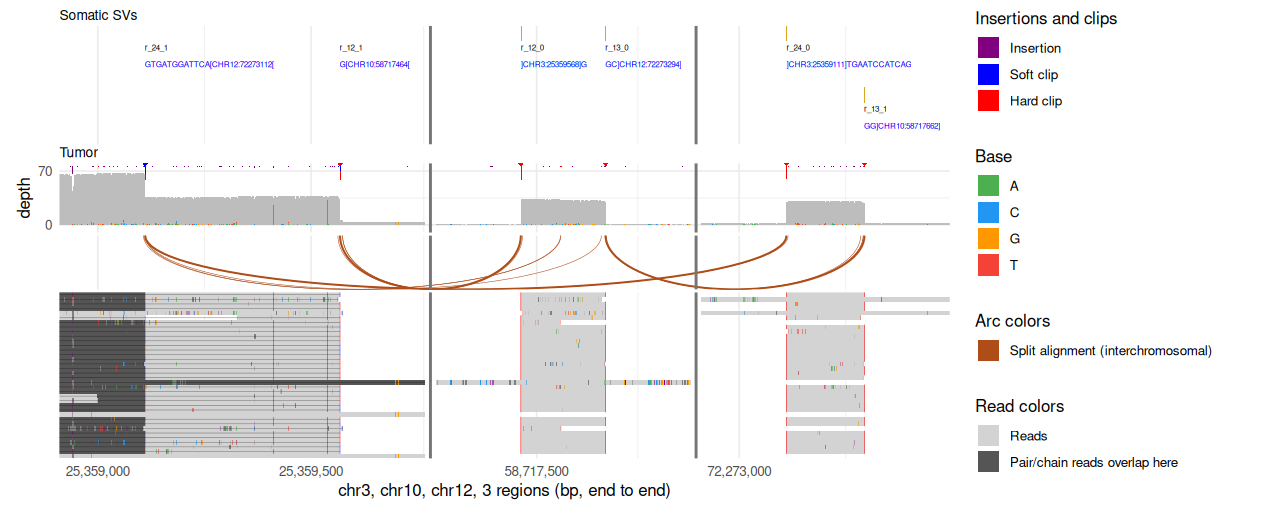
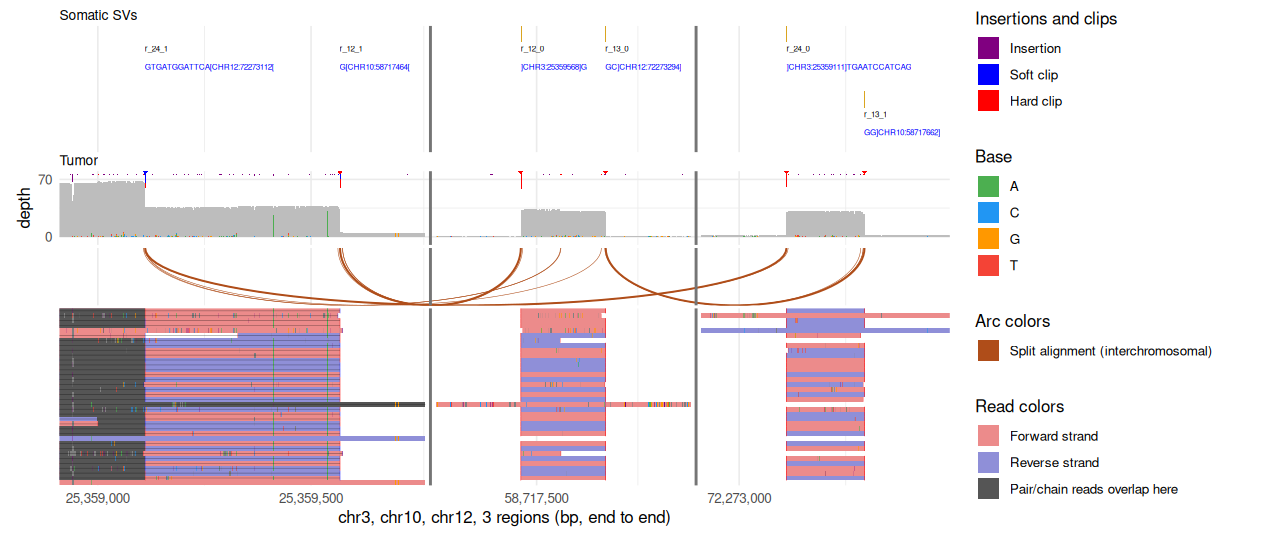
cancer_sv tutorial colors the chain reads under encoding
The display-level color slot moved to encoding.color, so the engine
dropped it with a warning and the chain figure lost its strand colors.

diff --git a/docs/tutorials/cancer_sv.md b/docs/tutorials/cancer_sv.md
@@ -443,15 +443,14 @@ arc for each split between chromosomes:
 
 ``` r
 chain_display <- list(unit = "chain", readConnections = list(show = TRUE),
-  color = list(field = "strand"), filter = list(list(field = "split", equal = TRUE)),
+  encoding = list(color = list(field = "strand")),
+  filter = list(list(field = "split", equal = TRUE)),
   pileup = list(readHeight = 3))
 fig <- jbrowse_stack(
   `Somatic SVs` = jbrowse_features(calls_vcf, loci, width = 1200,
     assembly = hg38),
   Tumor = jbrowse_alignments(tumor, loci, assembly = hg38,
     display = chain_display), width = 1200)
-#> Warning: LinearAlignmentsDisplay "tables" does not declare color: loading
-#> without it
 ```
 
 
